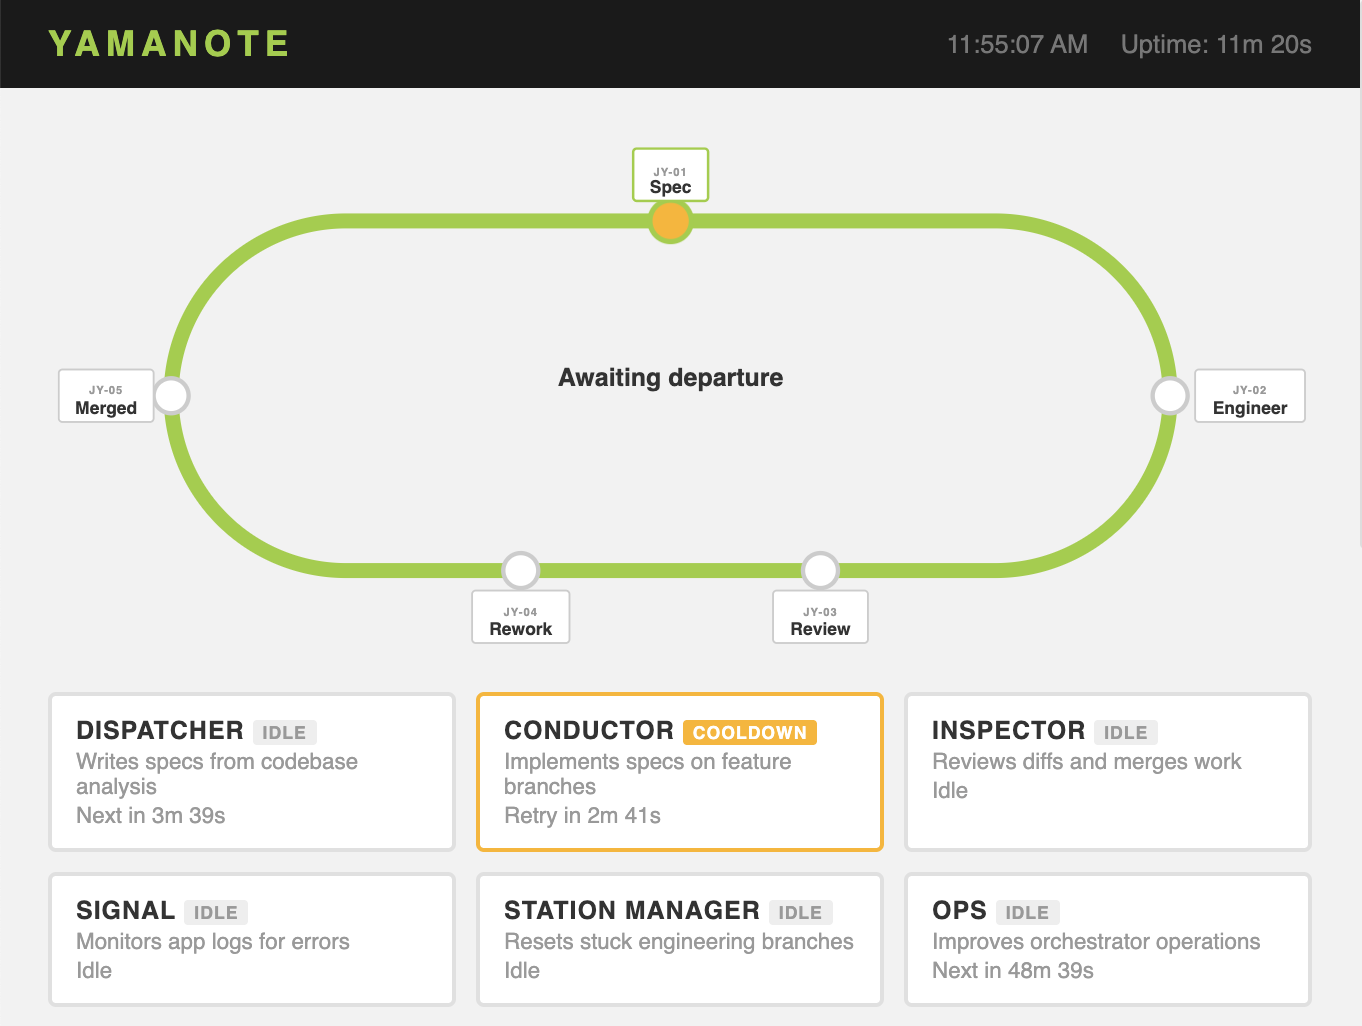
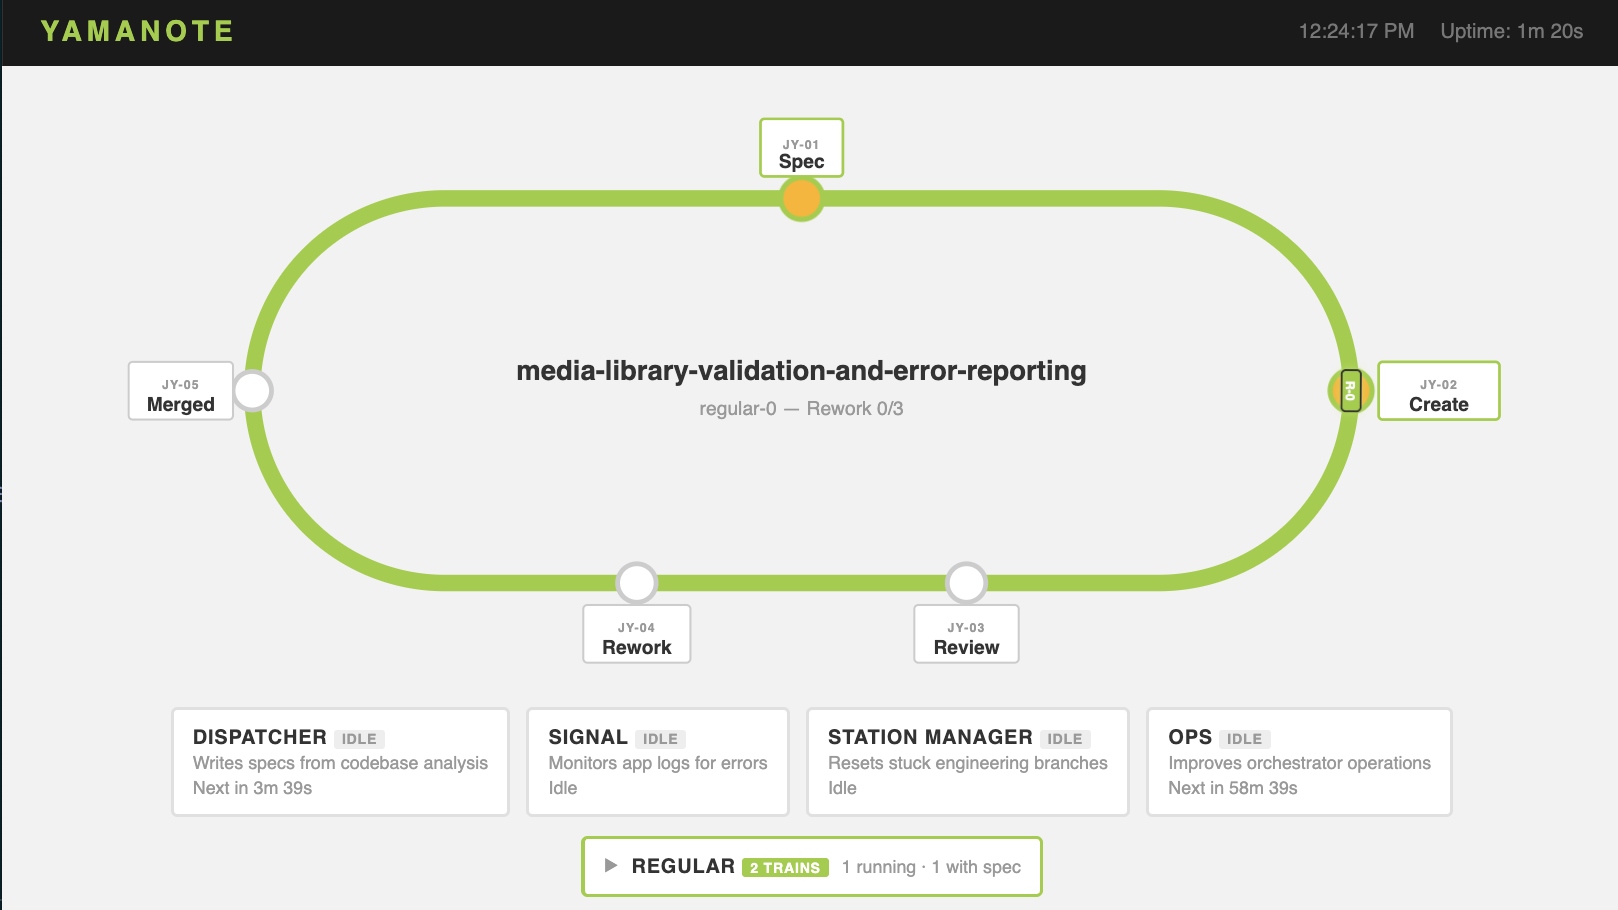
Add dashboard screenshots and captions to README

Changed region(s): [[0.0617, 0.1231, 0.9559, 0.9846], [0.0, 0.0, 1.0, 0.0923], [0.3084, 0.3385, 0.6784, 0.4615]]

diff --git a/README.md b/README.md
@@ -153,6 +153,7 @@ ls -lt agents/logs/ | head
 ### 6. Web dashboard (optional)
 
 ![Dashboard](img/yamanote_dashboard.png)
+*The pipeline view shows specs traveling around the Yamanote loop — from Spec through Create, Review, Rework, and finally Merged — with agent status cards and train counts below.*
 
 A locally-hosted web dashboard gives an at-a-glance view of agent status, pipeline progress, backlog, and recent activity — accessible from any device on the LAN. Disabled by default.
 
@@ -177,6 +178,9 @@ The dashboard shows:
 - **Backlog** — queued specs with priority
 - **Activity feed** — color-coded event log
 - **Configuration** — collapsible current settings
+
+![Travel Board](img/yamanote_travel_board.png)
+*The travel board tracks specs as they move through the pipeline — Backlog (awaiting departure), Traveling (in transit with a train), and Arrived (merged to trunk) — styled after a Japanese train station departure board.*
 
 A JSON API is also available at `GET /api/status` for programmatic access.
 
